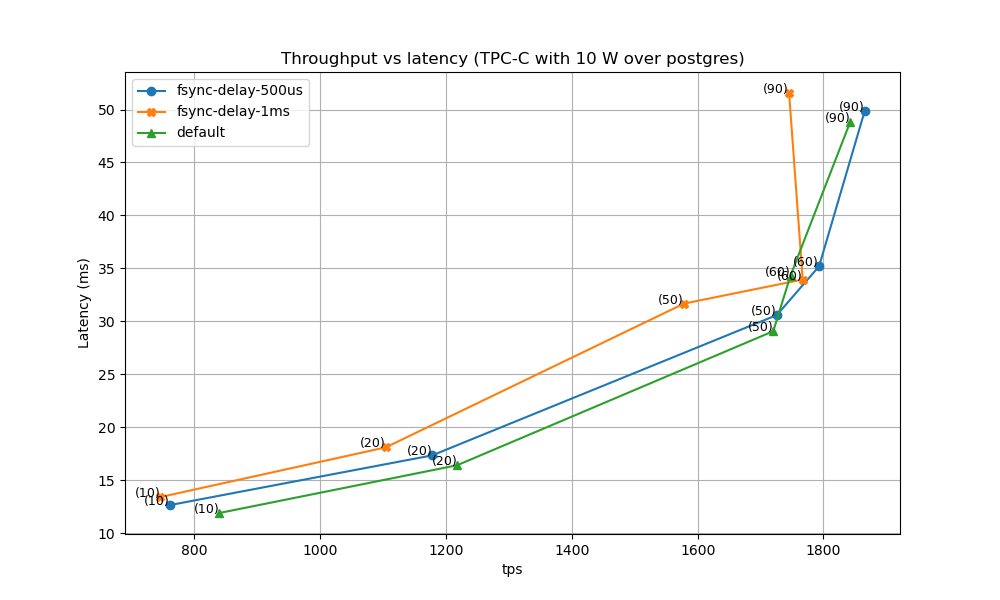
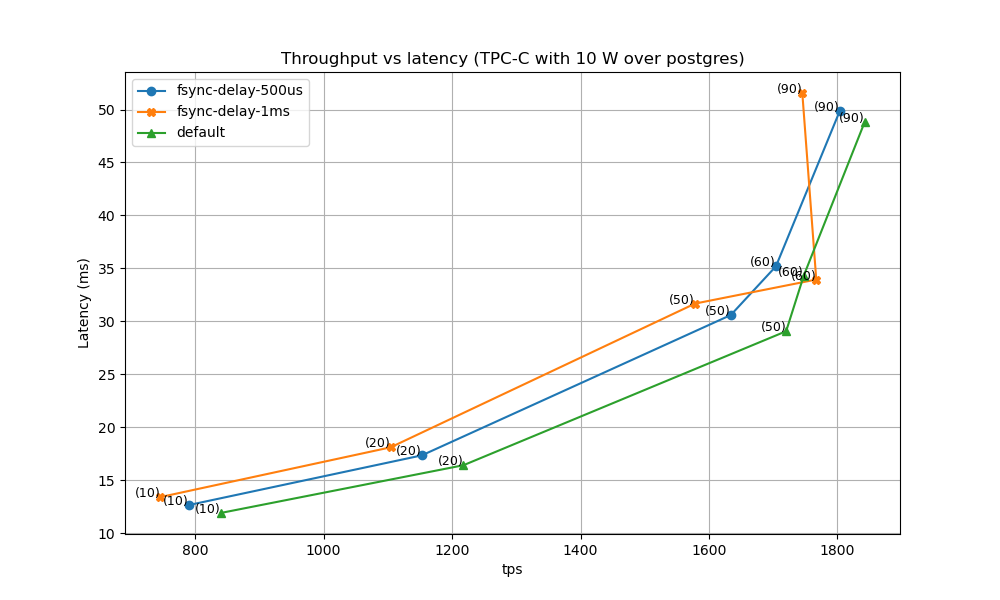
.

diff --git a/postgres-with-zfs-on-docker-27-02-2025-remote-client/lat-throughput.py b/postgres-with-zfs-on-docker-27-02-2025-remote-client/lat-throughput.py
@@ -11,11 +11,12 @@ latency_500us = [
 ]
 
 throughput_500us = [
-    761.2166667,
-    1177.87,
-    1725.93,
-    1793,
-    1865.62
+    790.05,
+    1152.8,
+    1633.95,
+    1704.24,
+    1803.8
+
 ]
 
 
